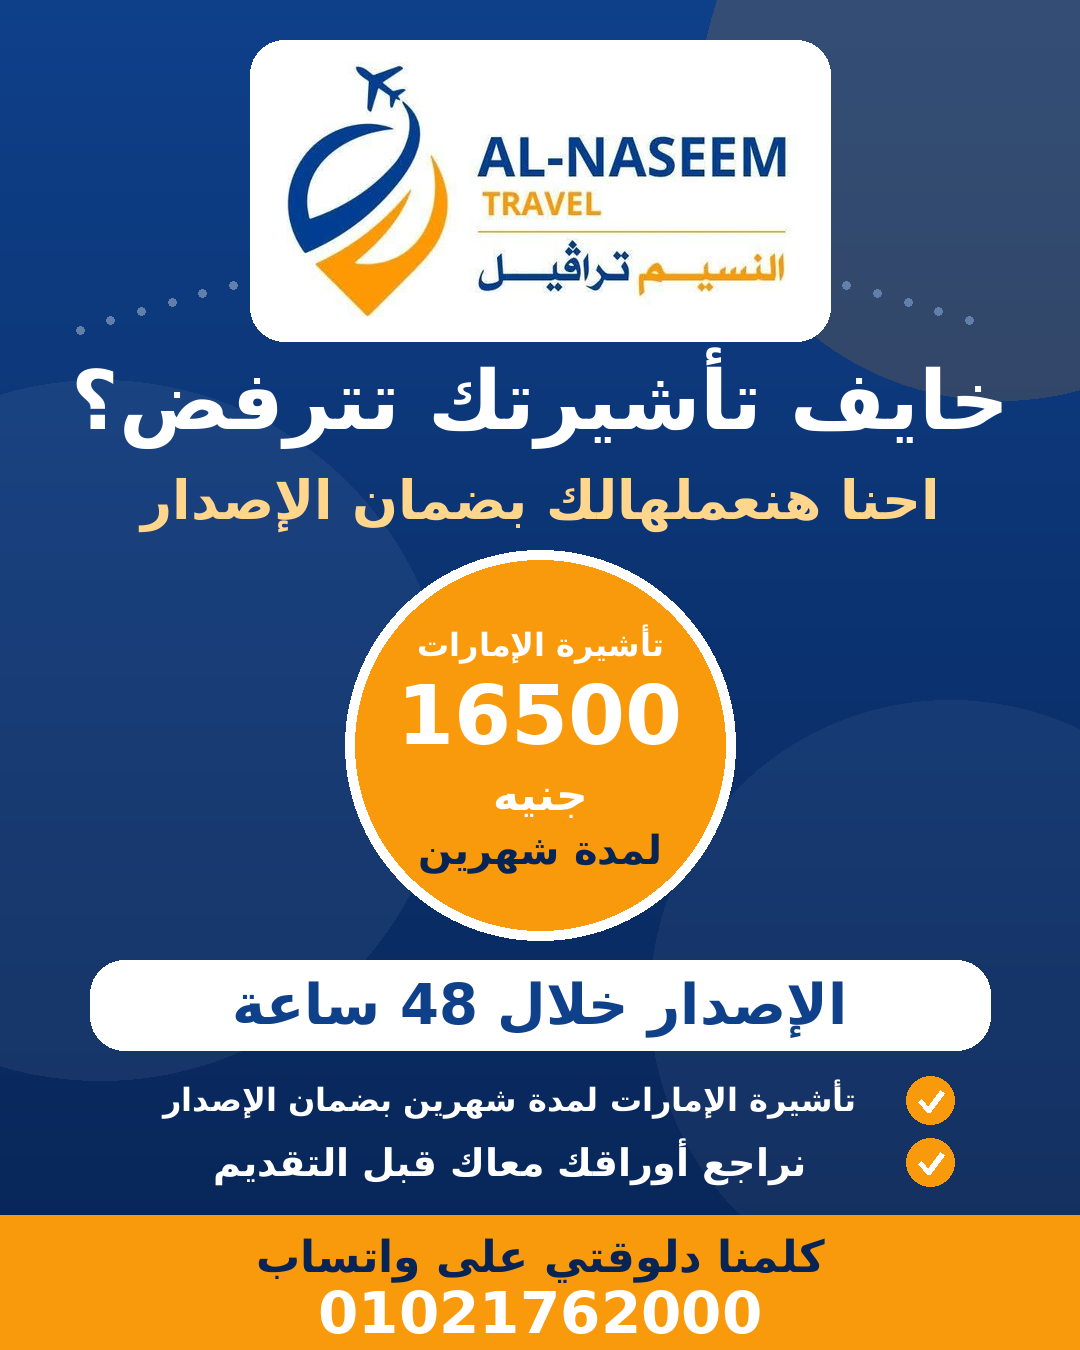
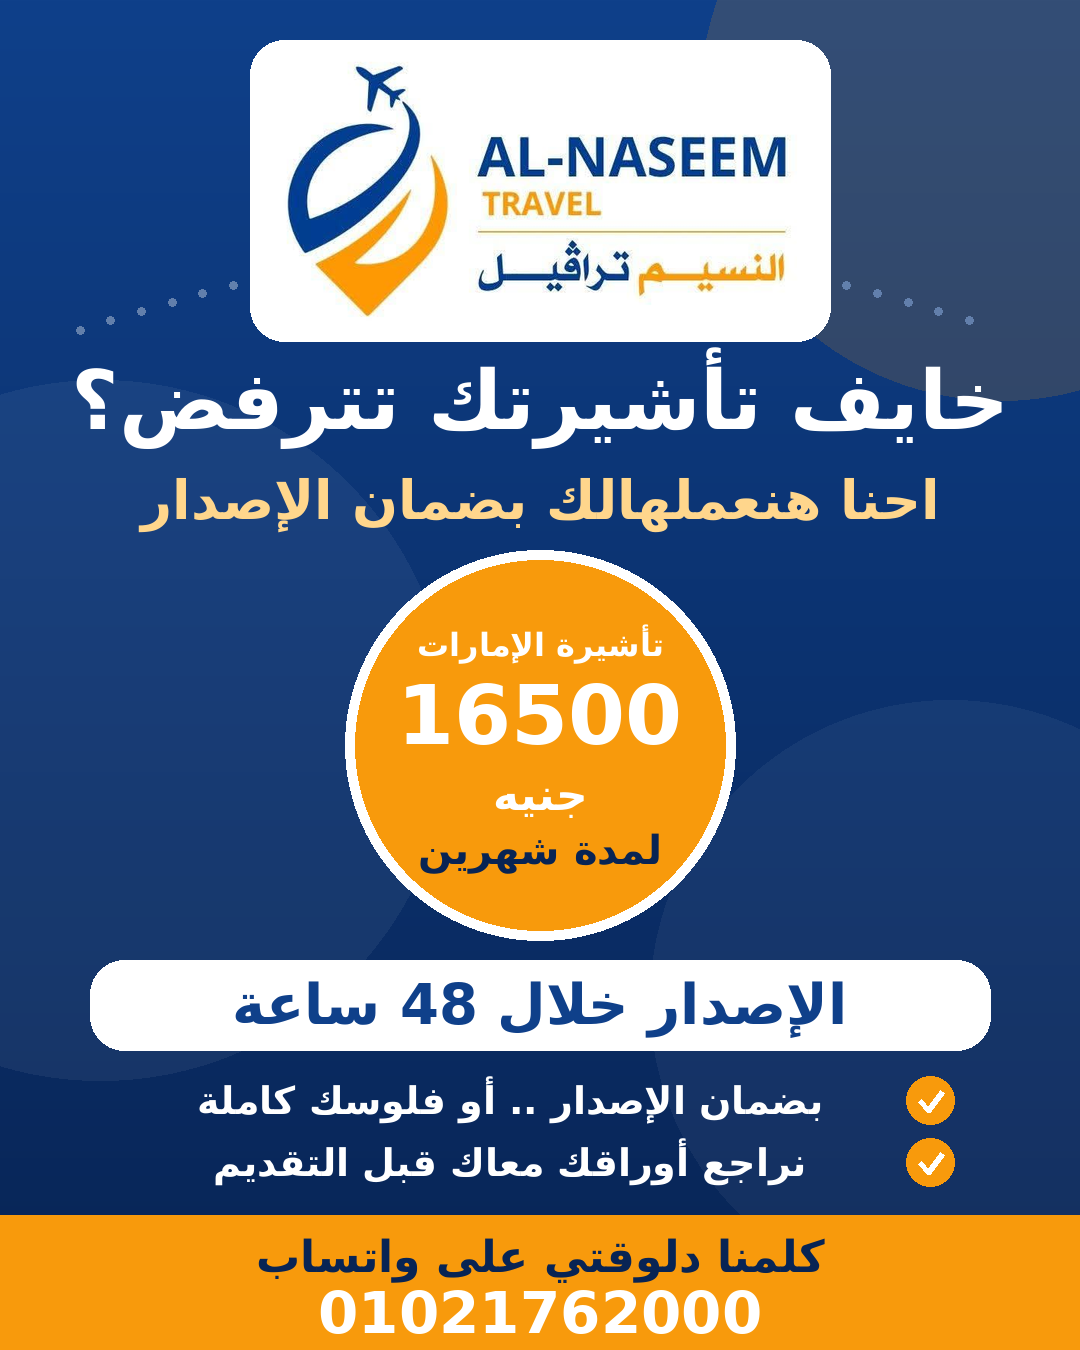
UAE post: add full refund line
Claude-Session: https://claude.ai/code/session_01KyFEmSMhSEDSYzVgMbBpox

Changed region(s): [[0.1528, 0.7778, 0.7944, 0.84]]

diff --git a/assets/make_post_uae.py b/assets/make_post_uae.py
@@ -44,7 +44,7 @@ tx(cy+50,'جنيه',44,white,maxw=200)
 tx(cy+105,'لمدة شهرين',40,dark,maxw=250)
 d.rounded_rectangle((90,960,W-90,1050),radius=34,fill=white)
 tx(1005,'الإصدار خلال 48 ساعة',56,blue,maxw=860)
-for i,s2 in enumerate(['تأشيرة الإمارات لمدة شهرين بضمان الإصدار','نراجع أوراقك معاك قبل التقديم']):
+for i,s2 in enumerate(['بضمان الإصدار .. أو فلوسك كاملة','نراجع أوراقك معاك قبل التقديم']):
     y=1100+i*62
     d.ellipse((W-150-24,y-24,W-150+24,y+24),fill=orange)
     d.line([(W-150-11,y),(W-150-2,y+10),(W-150+12,y-9)],fill=white,width=6,joint='curve')
